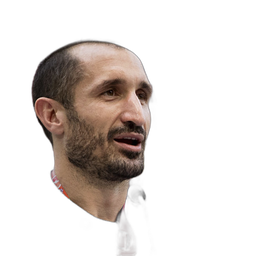
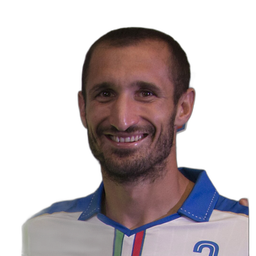
Bytt til toppår-bilder for Chiellini, Nani og Özil
Claude-Session: https://claude.ai/code/session_01Tid9GXZeFxBbTKWZkDbksz

diff --git a/src/lib/player-photos.ts b/src/lib/player-photos.ts
@@ -420,9 +420,9 @@ const withPhoto = new Set([
  * De ni Icons fra migrering 0109 er beskårne og frilagte bilder fra Wikimedia Commons (frie lisenser, se filsidene):
  * Hazard «Eden Hazard at Baku before 2019 UEFA Europe League Final.jpg», Totti «Francesco Totti Vicario (crop).jpg»,
  * Iniesta «Andrés Iniesta 2011.jpg», Marcelo «20180610 FIFA Friendly Match Austria vs. Brazil Marcelo 850 1622.jpg»,
- * Chiellini «Sergio Mattarella meets Italy national football team ... Chiellini (cropped).jpg»,
+ * Chiellini «Giorgio Chiellini, 2015 (cropped).jpg»,
  * Villa «Spain-Tahiti, Confederations Cup 2013 (02) (Villa crop).jpg», Busquets «Sergio Busquets 2018 (cropped).jpg»,
- * Nani «Nani (Fenerbahçe, 2015).jpg», Özil «Mesut Özil at Baku before 2019 UEFA Europe League Final.jpg».
+ * Nani «Nani2012.JPG», Özil «Ozil in Real Madrid.jpg». Bildene er helst fra toppårene til spillerne.
  */
 const iconPhotos = new Set<string>([
   "icon-pele", "icon-maradona", "icon-ronaldo-nazario", "icon-zidane", "icon-cruyff",
